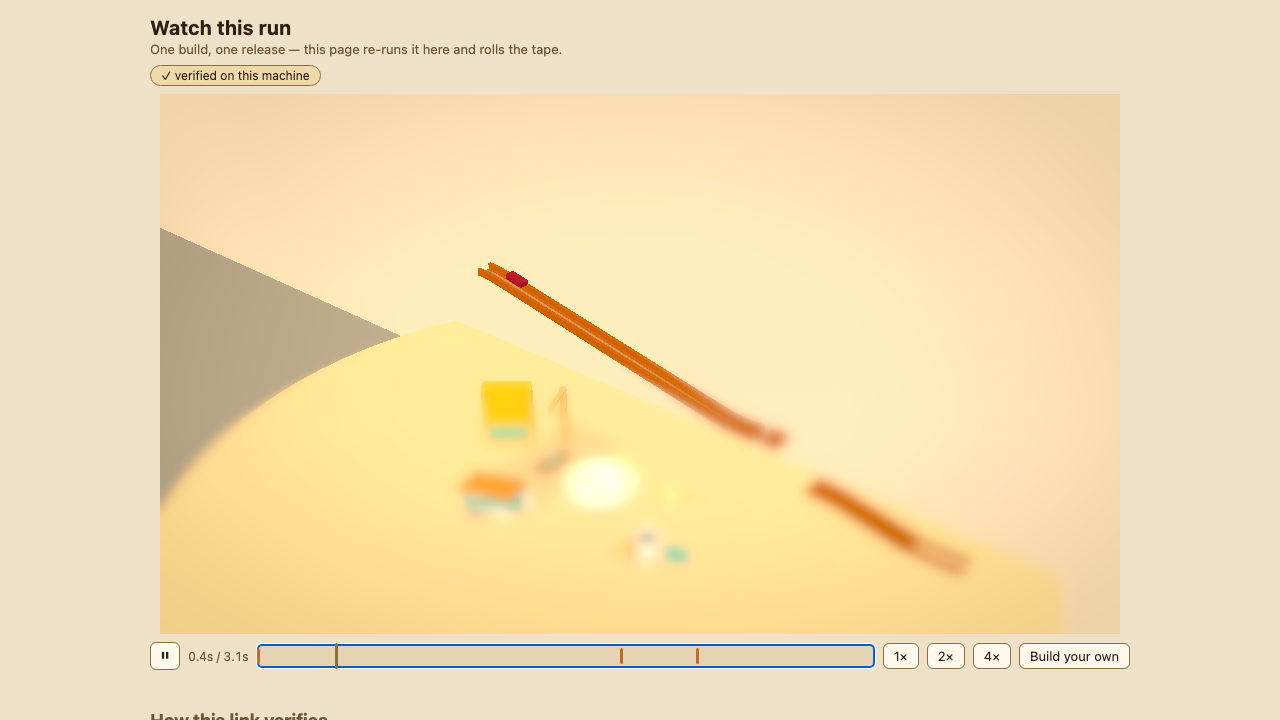
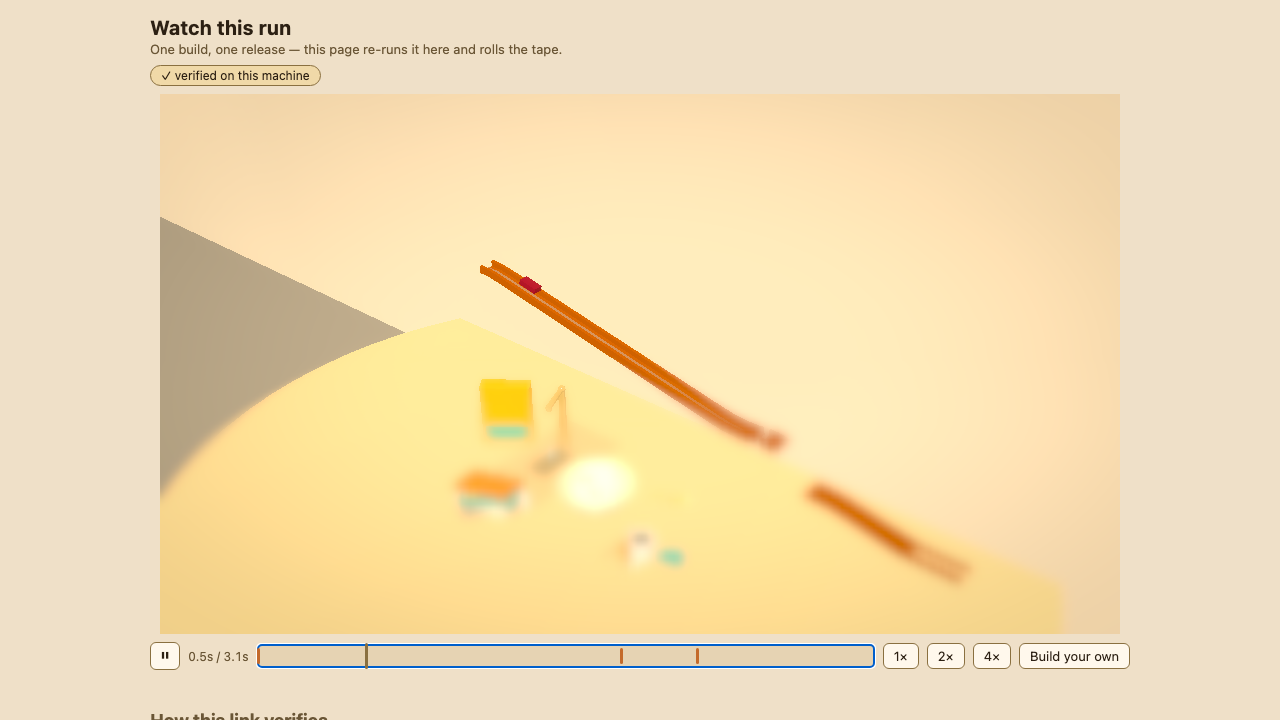
stage 5: systems engineer - K3 par pins follow the re-sweep (5/1.45 from pars.json; CI-caught merge staleness)

diff --git a/tests/e2e/playtest-pq.spec.ts b/tests/e2e/playtest-pq.spec.ts
@@ -228,7 +228,7 @@ test('every open rung and the first boot state THAT level’s par numbers', asyn
   const rungs: [string, string, string][] = [
     ['kitchen01', '3', '2.25'],
     ['kitchen02', '3', '1.05'],
-    ['kitchen03', '5', '2.65'],
+    ['kitchen03', '5', '1.45'],
     ['kitchen04', '4', '2.55'],
     ['kitchen05', '6', '2.40'],
     ['bedroom01', '3', '2.35'],
@@ -251,7 +251,7 @@ test('every open rung and the first boot state THAT level’s par numbers', asyn
   await ready(boot)
   await expect(boot.locator('#gw-callout')).toContainText('Stars: finish the run')
   await expect(boot.locator('#gw-callout')).toContainText('5 pieces (par)')
-  await expect(boot.locator('#gw-callout')).toContainText('2.65 s (par = the target time for this run)')
+  await expect(boot.locator('#gw-callout')).toContainText('1.45 s (par = the target time for this run)')
   await ctx2.close()
 
   expect(errors).toEqual([])

diff --git a/docs/vault/Decision Log.md b/docs/vault/Decision Log.md
@@ -255,3 +255,11 @@ asserted step-for-step with zero difference. Cost: ~15·120 steps of upfront sim
 second) and ~200 KB of doubles for a capped run. Alternatives rejected: keyframe + interpolation
 (forbidden — invented states), live re-stepping (a); recorded video of a first playthrough
 (a second source of truth).
+
+## 2026-10-08 — Merge a worktree by its HEAD, never by a remote ref [agent decision]
+The first stage5-k3 merge took `origin/stage5-k3` while the agent's real commit `b78fe83` sat in
+its worktree HEAD — a silently FAILED push (GitHub 500 window) left remote ≠ branch. Symptom: the
+merge brought half-done checkpoint code under old tests and two unit tests went red that were green
+where the agent ran them. Rule: for any worktree branch, `git -C <worktree> rev-parse HEAD` and
+`git status --porcelain` FIRST; merge THAT sha (objects are shared across worktrees), and re-push
+the branch from the worktree before concluding. Wire-fault salvage must verify the PUSH, not the commit.

diff --git a/docs/vault/Sessions/2026-10-10 Stage 5 - K3 re-sweep.md b/docs/vault/Sessions/2026-10-10 Stage 5 - K3 re-sweep.md
@@ -130,3 +130,5 @@ test with builder-exact flips), set-wiring (rule re-derivation + hash
 `a1a50d05`), camera (0.916 < 0.95 worst |ndc|, in-frame every step) —
 green, and the FULL unit suite: 684/684. Ladder/Levels/world rows
 rewritten to the measured numbers; Home's owed-K3 ledger line CLOSED.
+
+Post-merge fix (Director): playtest-pq par pins updated to the re-swept kitchen03 row (5 pieces, 1.45 s from pars.json — the merge left the old 2.65 literals; CI caught it, local repro confirmed, both files x2 repeat green).
